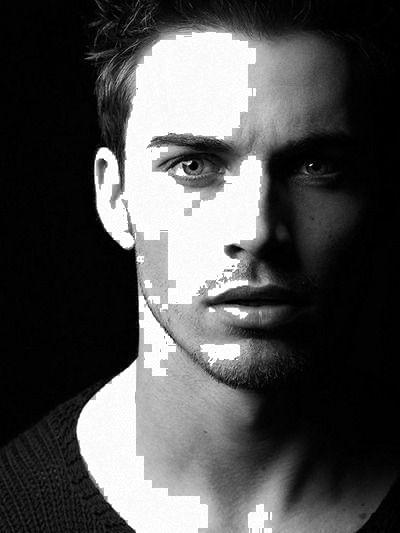
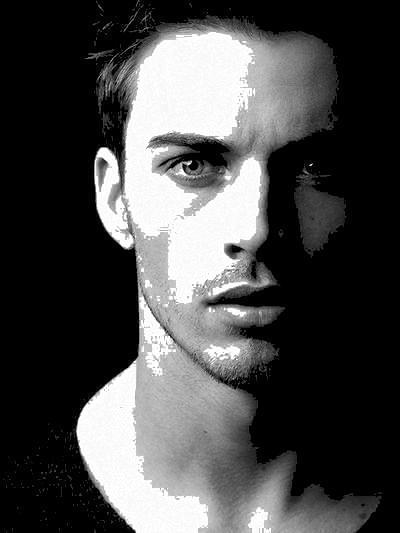
light color update

diff --git a/Main.java b/Main.java
@@ -277,7 +277,7 @@ public class Main extends Application {
             for (int i = 0; i < h; i++) {
                 for (int x = 0; x < w; x++) {
                     Color temp = new Color(RGBarray[c]);
-                    if (temp.getRed() > lightTolerance && temp.getGreen() > lightTolerance && temp.getRed() > lightTolerance) {
+                    if (temp.getRed() < lightTolerance && temp.getGreen() < lightTolerance && temp.getRed() < lightTolerance) {
                         Color bright;
                         if (temp.getRed() > 245 && temp.getGreen() < 245 && temp.getBlue() < 245)
                             bright = new Color(255, 255, 255);
